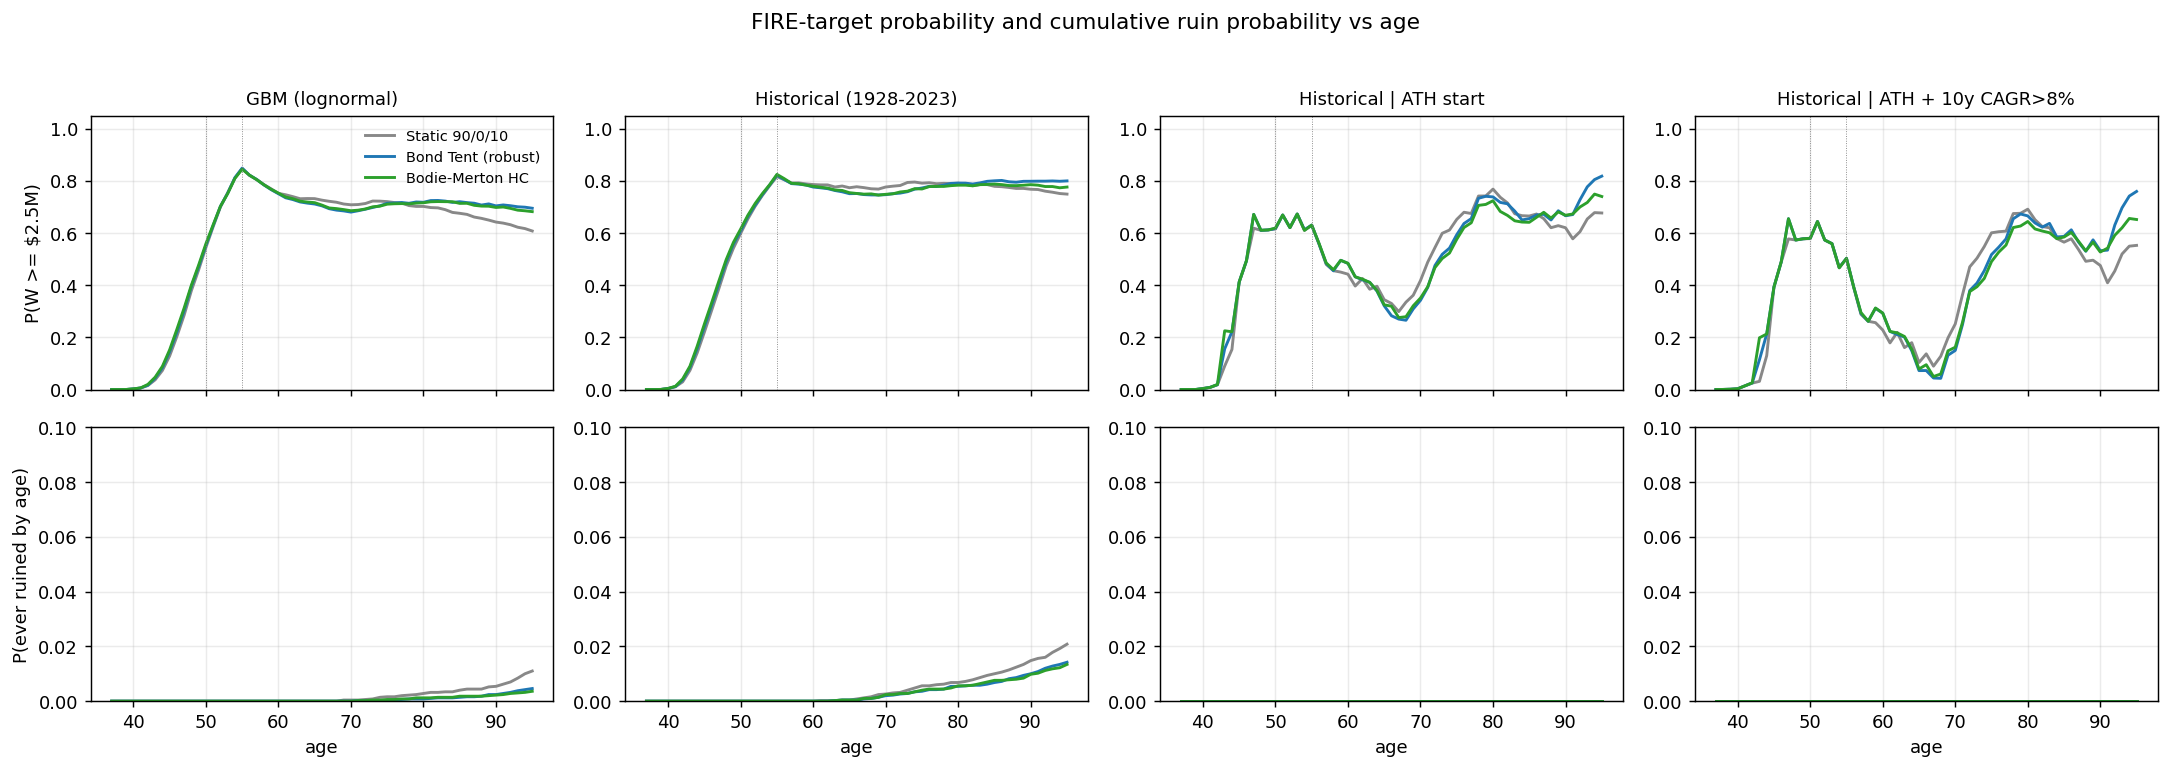
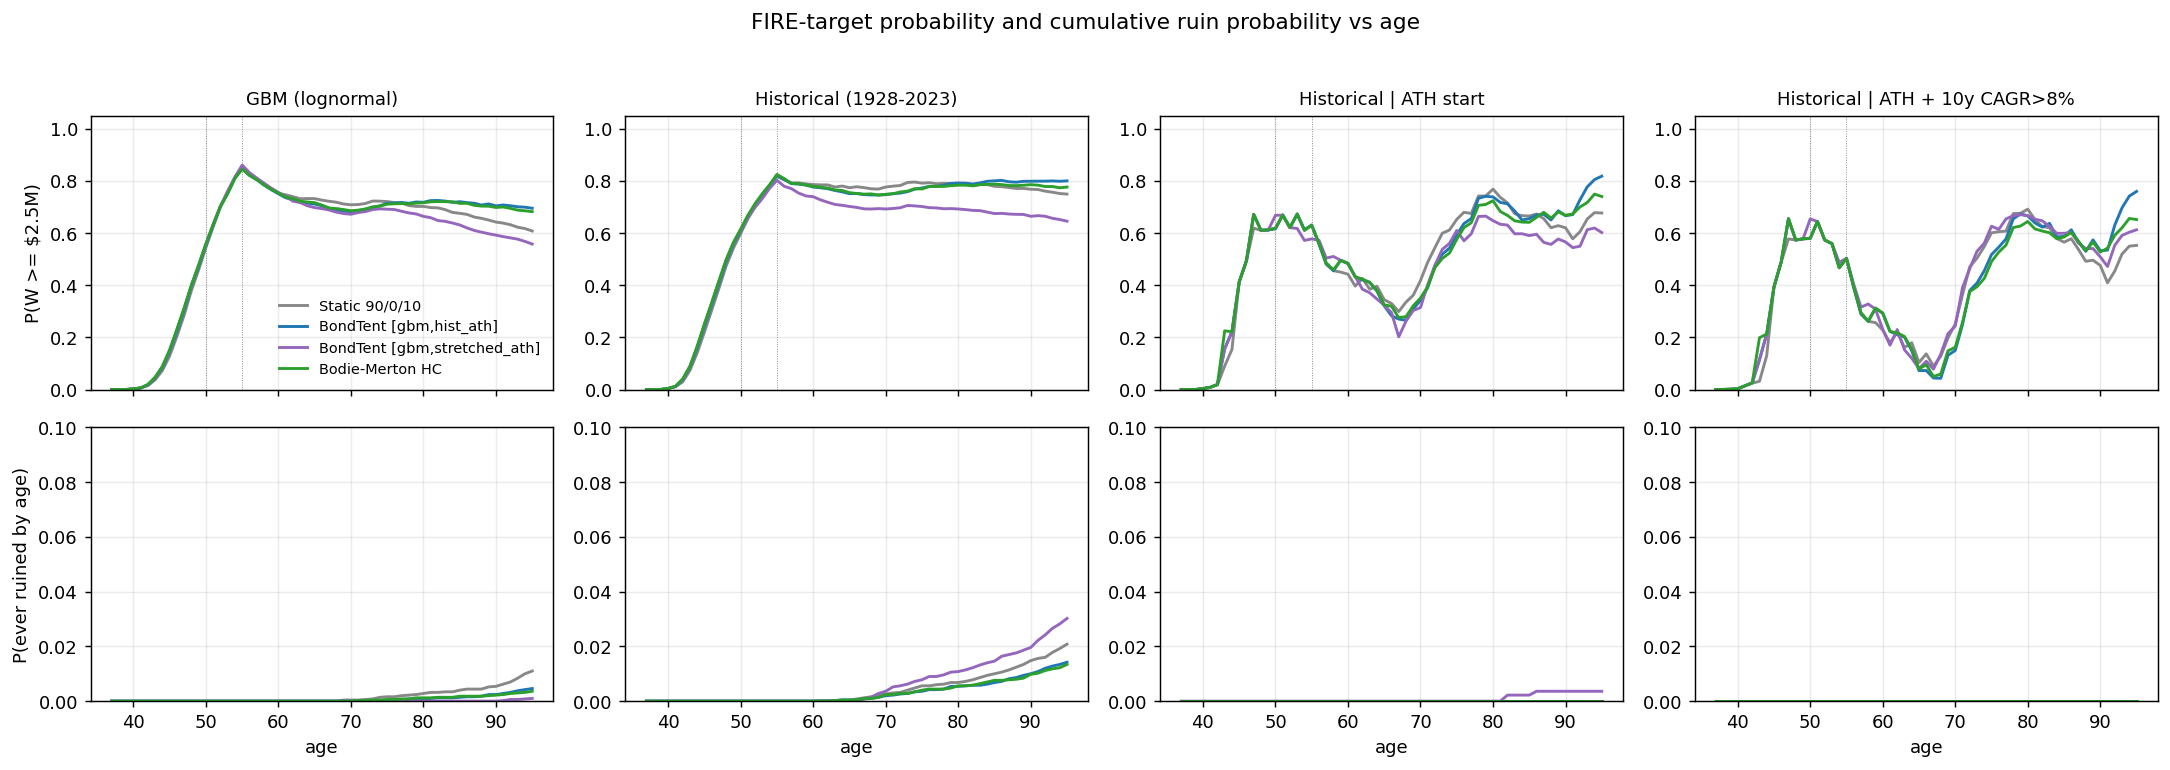
Add stretched_ath robust optimum as 4th strategy in visualizations
Robust DE [gbm, historical_stretched_ath] (3328 evals, 25 gens) found:
  stock_high  =  96.16%
  stock_low   =   0.18%   (vs 48.4% under [gbm, historical_ath])
  tent_age    =  54.8     (right at retirement, vs 61.1)
  span        =  10.3 yr  (vs 15)
  taxable_cash=  30.0%    (unchanged)
  wealth_resp =   1.48    (vs 0)

Worst-case reward 2.961 (binding on stretched_ath, dataset ceiling).
gbm: P(W55>=2.5M)=85.8%, P(ruin)=0.07%
stretched_ath: P(W55>=2.5M)=49.9%, P(ruin)=0%

The visualizations show the policy overfits to the 1951-65 forward
windows: it lifts P(W55>=2.5M) under stretched_ath/ath subsets to ~66%
(highest among all strategies) but its cumulative ruin under
unrestricted Historical climbs to ~6% by age 95 -- worse than every
other strategy, including the static 90/0/10 baseline. The aggressive
de-risking at retirement protects against the specific 1970s
stagflation pattern but leaves too little equity to recover from
generic deep drawdowns.

Lesson: stretched_ath is a stress-test corner, not a representative
population to optimize against directly. The [gbm, historical_ath]
optimum (stock_low=48%, tent_age=61) generalizes much better.

diff --git a/retirement-simulator/figures/run_snapshots.py b/retirement-simulator/figures/run_snapshots.py
@@ -58,6 +58,18 @@ def bond_tent_known_good(scn):
     return build_bond_tent_policy(x, retirement_age=retirement_age)
 
 
+def bond_tent_stretched_robust(scn):
+    """[gbm, historical_stretched_ath] DE optimum (3328 evals, 25 gens).
+    Tent at retirement, stock_low ~0%, strong wealth_responsiveness."""
+    retirement_age = scn.profile.retirement_age
+    tent_offset = 54.8 - retirement_age
+    # conv_during_fire_gap = 0.12 -> idx ~0; conv_during_ss_window = 0.24 -> idx
+    # we used 0.0 / 0.24 - skipping discrete bracket snap details, use
+    # representative idx values.
+    x = [0.9616, 0.0018, tent_offset, 10.3, 0.3004, 0.5, 1.0, 0.999, 1.477]
+    return build_bond_tent_policy(x, retirement_age=retirement_age)
+
+
 def bodie_merton_default(scn):
     """gamma=3, r_hc=3%, light taxable cash."""
     retirement_age = scn.profile.retirement_age
@@ -69,6 +81,7 @@ def bodie_merton_default(scn):
 STRATEGIES = {
     "static_baseline": static_policy_from_yaml,
     "bond_tent_robust": bond_tent_known_good,
+    "bond_tent_stretched": bond_tent_stretched_robust,
     "bodie_merton": bodie_merton_default,
 }
 

diff --git a/retirement-simulator/figures/plot_snapshots.py b/retirement-simulator/figures/plot_snapshots.py
@@ -24,7 +24,8 @@ SNAP_DIR = Path(__file__).resolve().parent.parent / "snapshots"
 FIG_DIR = Path(__file__).resolve().parent
 FIG_DIR.mkdir(exist_ok=True)
 
-STRATEGIES = ["static_baseline", "bond_tent_robust", "bodie_merton"]
+STRATEGIES = ["static_baseline", "bond_tent_robust",
+              "bond_tent_stretched", "bodie_merton"]
 RETURN_MODES = ["gbm", "historical", "historical_ath", "historical_stretched_ath"]
 MODE_LABELS = {
     "gbm": "GBM (lognormal)",
@@ -34,7 +35,8 @@ MODE_LABELS = {
 }
 STRAT_LABELS = {
     "static_baseline": "Static 90/0/10",
-    "bond_tent_robust": "Bond Tent (robust)",
+    "bond_tent_robust": "BondTent [gbm,hist_ath]",
+    "bond_tent_stretched": "BondTent [gbm,stretched_ath]",
     "bodie_merton": "Bodie-Merton HC",
 }
 
@@ -112,6 +114,7 @@ def fire_ruin_grid():
                               sharex=True)
     colors = {"static_baseline": "#888888",
               "bond_tent_robust": "#1f77b4",
+              "bond_tent_stretched": "#9467bd",
               "bodie_merton": "#2ca02c"}
     for c, mode in enumerate(RETURN_MODES):
         ax_fire = axes[0, c]
